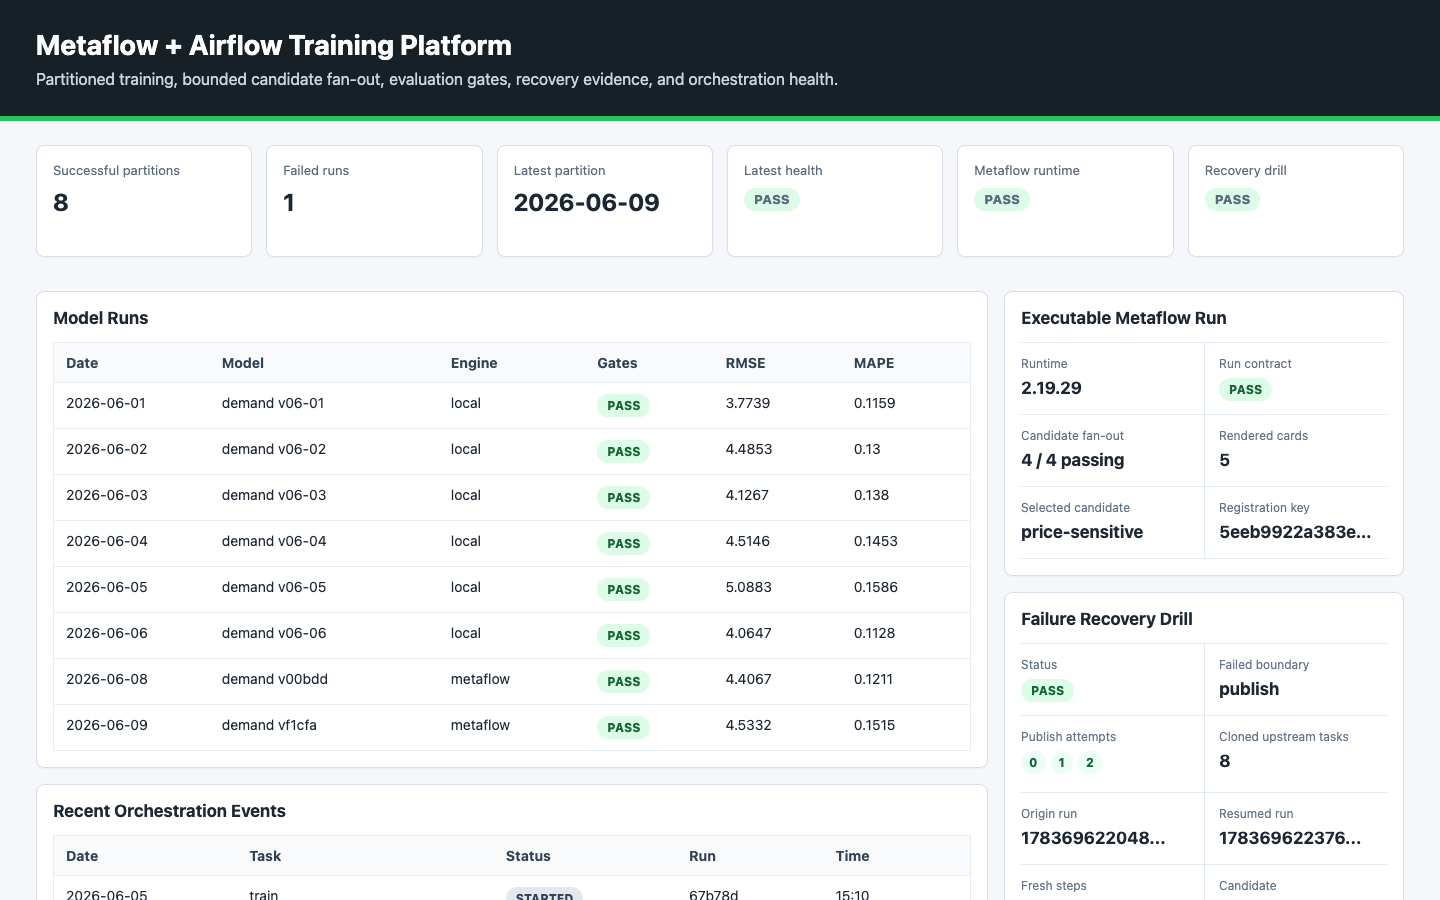
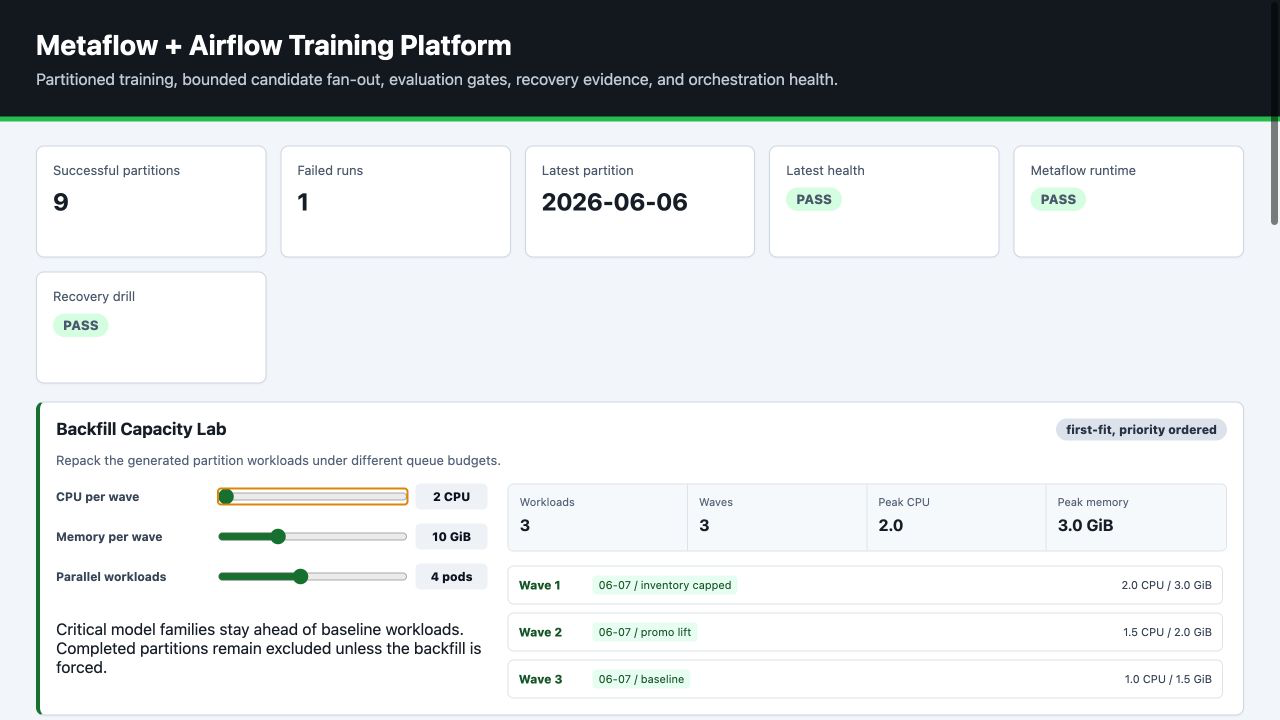
Add interactive training operator demo

diff --git a/src/training_orchestration_platform/dashboard.py b/src/training_orchestration_platform/dashboard.py
@@ -1,6 +1,7 @@
 from __future__ import annotations
 
 import html
+import json
 from pathlib import Path
 
 from .io import read_json, read_jsonl
@@ -103,6 +104,12 @@ def render_dashboard(root: str | Path, output_path: str | Path) -> Path:
     resume_verification = read_json(root / "metaflow" / "resume_verification.json") if (root / "metaflow" / "resume_verification.json").exists() else {}
     runtime_verified = bool(runtime_verification.get("passed")) and runtime_verification.get("run_id") == runtime_contract.get("metaflow_run_id")
     resume_status = "success" if resume_verification.get("passed") else ("failed" if resume_verification else "not run")
+    planner_workloads = [
+        workload
+        for wave in capacity_plan.get("waves", [])
+        for workload in wave.get("workloads", [])
+    ]
+    planner_payload = json.dumps(planner_workloads, separators=(",", ":")).replace("</", "<\\/")
     recent = [
         {
                 "date": row.get("ds"),
@@ -180,8 +187,29 @@ def render_dashboard(root: str | Path, output_path: str | Path) -> Path:
         .fact > span {{ display:block; color:#64748b; font-size:12px; margin-bottom:7px; }}
         .fact strong {{ display:block; min-width:0; font-size:17px; overflow-wrap:anywhere; }}
         .fact .nowrap {{ display:block; width:100%; }}
-        @media (max-width:900px) {{ header {{ padding:22px 18px; }} main {{ padding:18px; }} .layout {{ grid-template-columns:1fr; }} }}
+        .planner {{ border-left:4px solid #15803d; margin-bottom:18px; }}
+        .planner-heading {{ display:flex; align-items:flex-start; justify-content:space-between; gap:18px; margin-bottom:16px; }}
+        .planner-heading p {{ margin:5px 0 0; color:#64748b; font-size:13px; }}
+        .planner-grid {{ display:grid; grid-template-columns:minmax(0,.75fr) minmax(0,1.25fr); gap:20px; align-items:start; }}
+        .controls {{ display:grid; gap:14px; }}
+        .control-row {{ display:grid; grid-template-columns:150px minmax(0,1fr) 72px; gap:10px; align-items:center; }}
+        .control-row label {{ color:#475569; font-size:12px; font-weight:700; }}
+        .control-row input {{ width:100%; accent-color:#15803d; }}
+        .control-value {{ color:#0f172a; background:#f1f5f9; border-radius:5px; padding:6px 8px; font-size:12px; font-weight:800; text-align:center; }}
+        .planner-kpis {{ display:grid; grid-template-columns:repeat(4,minmax(0,1fr)); border:1px solid #e3e9f0; border-radius:6px; overflow:hidden; margin-bottom:14px; }}
+        .planner-kpis div {{ padding:11px; min-height:66px; background:#f8fafc; border-right:1px solid #e3e9f0; }}
+        .planner-kpis div:last-child {{ border-right:0; }}
+        .planner-kpis span {{ display:block; color:#64748b; font-size:11px; margin-bottom:7px; }}
+        .planner-kpis strong {{ display:block; font-size:16px; }}
+        .wave-list {{ display:grid; gap:8px; max-height:268px; overflow:auto; padding-right:4px; }}
+        .wave-row {{ display:grid; grid-template-columns:64px minmax(0,1fr) 150px; gap:10px; align-items:center; padding:9px 10px; border:1px solid #e3e9f0; border-radius:6px; background:white; }}
+        .wave-name {{ font-size:12px; font-weight:800; color:#166534; }}
+        .wave-workloads {{ display:flex; flex-wrap:wrap; gap:5px; }}
+        .wave-chip {{ padding:3px 6px; border-radius:4px; background:#ecfdf5; color:#166534; font-size:11px; white-space:nowrap; }}
+        .wave-resources {{ color:#475569; font-size:11px; text-align:right; }}
+        @media (max-width:900px) {{ header {{ padding:22px 18px; }} main {{ padding:18px; }} .layout,.planner-grid {{ grid-template-columns:1fr; }} }}
         @media (max-width:540px) {{ .facts {{ grid-template-columns:1fr; }} .fact:nth-child(even) {{ padding-left:0; border-left:0; }} }}
+        @media (max-width:620px) {{ .planner-heading {{ flex-direction:column; }} .planner-kpis {{ grid-template-columns:repeat(2,minmax(0,1fr)); }} .planner-kpis div:nth-child(2) {{ border-right:0; }} .planner-kpis div:nth-child(-n+2) {{ border-bottom:1px solid #e3e9f0; }} .control-row {{ grid-template-columns:110px minmax(0,1fr) 60px; }} .wave-row {{ grid-template-columns:52px minmax(0,1fr); }} .wave-resources {{ grid-column:2; text-align:left; }} }}
       </style>
     </head>
     <body>
@@ -197,6 +225,29 @@ def render_dashboard(root: str | Path, output_path: str | Path) -> Path:
           <div class="metric"><span>Latest health</span><strong>{badge(latest_healthy)}</strong></div>
           <div class="metric"><span>Metaflow runtime</span><strong>{badge(runtime_verified)}</strong></div>
           <div class="metric"><span>Recovery drill</span><strong>{status_badge(resume_status)}</strong></div>
+        </section>
+        <section class="panel planner" data-testid="backfill-capacity-lab">
+          <div class="planner-heading">
+            <div><h2>Backfill Capacity Lab</h2><p>Repack the generated partition workloads under different queue budgets.</p></div>
+            <span class="badge neutral">first-fit, priority ordered</span>
+          </div>
+          <div class="planner-grid">
+            <div class="controls">
+              <div class="control-row"><label for="maxCpu">CPU per wave</label><input id="maxCpu" type="range" min="2" max="12" step="0.5" value="6"><output id="maxCpuValue" class="control-value">6 CPU</output></div>
+              <div class="control-row"><label for="maxMemory">Memory per wave</label><input id="maxMemory" type="range" min="4" max="24" step="1" value="10"><output id="maxMemoryValue" class="control-value">10 GiB</output></div>
+              <div class="control-row"><label for="maxParallelism">Parallel workloads</label><input id="maxParallelism" type="range" min="1" max="8" step="1" value="4"><output id="maxParallelismValue" class="control-value">4 pods</output></div>
+              <p class="planner-note">Critical model families stay ahead of baseline workloads. Completed partitions remain excluded unless the backfill is forced.</p>
+            </div>
+            <div>
+              <div class="planner-kpis" aria-live="polite">
+                <div><span>Workloads</span><strong id="plannerWorkloads">{len(planner_workloads)}</strong></div>
+                <div><span>Waves</span><strong id="plannerWaves">{esc(capacity_plan.get('wave_count', 0))}</strong></div>
+                <div><span>Peak CPU</span><strong id="plannerCpu">n/a</strong></div>
+                <div><span>Peak memory</span><strong id="plannerMemory">n/a</strong></div>
+              </div>
+              <div id="waveList" class="wave-list"></div>
+            </div>
+          </div>
         </section>
         <section class="layout">
           <div>
@@ -259,6 +310,69 @@ def render_dashboard(root: str | Path, output_path: str | Path) -> Path:
           </div>
         </section>
       </main>
+      <script>
+        const plannerWorkloads = {planner_payload};
+        const plannerById = (id) => document.getElementById(id);
+
+        function packWaves(workloads, maxCpu, maxMemory, maxParallelism) {{
+          const waves = [];
+          let current = [];
+          let cpu = 0;
+          let memory = 0;
+          workloads.forEach((workload) => {{
+            const exceeds = current.length >= maxParallelism || cpu + workload.cpu > maxCpu || memory + workload.memory_gib > maxMemory;
+            if (current.length && exceeds) {{
+              waves.push({{workloads: current, cpu, memory}});
+              current = [];
+              cpu = 0;
+              memory = 0;
+            }}
+            current.push(workload);
+            cpu += workload.cpu;
+            memory += workload.memory_gib;
+          }});
+          if (current.length) waves.push({{workloads: current, cpu, memory}});
+          return waves;
+        }}
+
+        function renderPlanner() {{
+          const maxCpu = Number(plannerById("maxCpu").value);
+          const maxMemory = Number(plannerById("maxMemory").value);
+          const maxParallelism = Number(plannerById("maxParallelism").value);
+          plannerById("maxCpuValue").textContent = maxCpu + " CPU";
+          plannerById("maxMemoryValue").textContent = maxMemory + " GiB";
+          plannerById("maxParallelismValue").textContent = maxParallelism + " pods";
+          const waves = packWaves(plannerWorkloads, maxCpu, maxMemory, maxParallelism);
+          plannerById("plannerWaves").textContent = waves.length;
+          plannerById("plannerCpu").textContent = Math.max(0, ...waves.map((wave) => wave.cpu)).toFixed(1);
+          plannerById("plannerMemory").textContent = Math.max(0, ...waves.map((wave) => wave.memory)).toFixed(1) + " GiB";
+          const list = plannerById("waveList");
+          list.replaceChildren();
+          waves.forEach((wave, index) => {{
+            const row = document.createElement("div");
+            row.className = "wave-row";
+            const name = document.createElement("span");
+            name.className = "wave-name";
+            name.textContent = "Wave " + (index + 1);
+            const items = document.createElement("div");
+            items.className = "wave-workloads";
+            wave.workloads.forEach((workload) => {{
+              const chip = document.createElement("span");
+              chip.className = "wave-chip";
+              chip.textContent = workload.partition.slice(5) + " / " + workload.model_family.replaceAll("_", " ");
+              items.appendChild(chip);
+            }});
+            const resources = document.createElement("span");
+            resources.className = "wave-resources";
+            resources.textContent = wave.cpu.toFixed(1) + " CPU / " + wave.memory.toFixed(1) + " GiB";
+            row.append(name, items, resources);
+            list.appendChild(row);
+          }});
+        }}
+
+        ["maxCpu", "maxMemory", "maxParallelism"].forEach((id) => plannerById(id).addEventListener("input", renderPlanner));
+        renderPlanner();
+      </script>
     </body>
     </html>
     """

diff --git a/tools/generate_demo_voice.py b/tools/generate_demo_voice.py
@@ -1,0 +1,38 @@
+"""Generate the neural voice-over used by the judge demo video."""
+
+from __future__ import annotations
+
+import argparse
+import asyncio
+from pathlib import Path
+
+
+async def synthesize(text: str, output: Path, voice: str, rate: str) -> None:
+    try:
+        import edge_tts
+    except ImportError as exc:  # pragma: no cover - optional demo dependency
+        raise SystemExit("Install demo dependencies: pip install -e '.[demo]'") from exc
+    output.parent.mkdir(parents=True, exist_ok=True)
+    await edge_tts.Communicate(text=text, voice=voice, rate=rate).save(str(output))
+
+
+def main() -> None:
+    parser = argparse.ArgumentParser(description="Create the training judge demo voice-over.")
+    parser.add_argument("--script", type=Path, default=Path("docs/demo-narration.txt"))
+    parser.add_argument(
+        "--output",
+        type=Path,
+        default=Path(".local/demo/training-judge-demo.mp3"),
+    )
+    parser.add_argument("--voice", default="en-GB-SoniaNeural")
+    parser.add_argument("--rate", default="-3%")
+    args = parser.parse_args()
+    text = args.script.read_text(encoding="utf-8").strip()
+    if not text:
+        raise SystemExit(f"Narration script is empty: {args.script}")
+    asyncio.run(synthesize(text, args.output, args.voice, args.rate))
+    print(args.output)
+
+
+if __name__ == "__main__":
+    main()

diff --git a/tests/test_training_orchestration_platform.py b/tests/test_training_orchestration_platform.py
@@ -1174,7 +1174,13 @@ class TrainingOrchestrationPlatformTest(unittest.TestCase):
             self.assertEqual(summary["pipeline"]["failed_runs"], 1)
             self.assertEqual(summary["next_command"], "make metaflow-runtime-contract")
             self.assertLess(len(str(summary)), 1_000)
-            self.assertTrue((root / "reports" / "training_orchestration_dashboard.html").exists())
+            dashboard_path = root / "reports" / "training_orchestration_dashboard.html"
+            self.assertTrue(dashboard_path.exists())
+            dashboard = dashboard_path.read_text()
+            self.assertIn("Backfill Capacity Lab", dashboard)
+            self.assertIn('data-testid="backfill-capacity-lab"', dashboard)
+            self.assertIn("function packWaves", dashboard)
+            self.assertIn('"model_family":"inventory_capped"', dashboard)
             self.assertTrue((root / "reports" / "index.html").exists())
             self.assertTrue((root / "reports" / "accelerator_capacity_plan.json").exists())
             self.assertTrue((root / "reports" / "device_allocation_plan.json").exists())

diff --git a/docs/judge-demo.md b/docs/judge-demo.md
@@ -1,0 +1,33 @@
+# Judge Demo
+
+## Start the console
+
+```bash
+make clean
+make demo
+python3 -m http.server 8093 --bind 127.0.0.1 --directory .local/reports
+```
+
+Open `http://127.0.0.1:8093/training_orchestration_dashboard.html`.
+
+## Five-minute story
+
+1. Establish the Airflow and Metaflow ownership boundary and point to the generated health evidence.
+2. Lower CPU per wave from 6 to 2 in the Backfill Capacity Lab and show one wave becoming three.
+3. Explain priority ordering, skipped completed partitions, and why the browser planner mirrors the Python policy.
+4. Inspect the executable Metaflow run: version, four-way fan-out, cards, winning candidate, and registration key.
+5. Walk through the forced publish failure, bounded attempts, eight cloned upstream tasks, and two fresh resume steps.
+6. Connect the local proof to Airflow 3.3 assets, Kubernetes Jobs, Kueue, remote artifacts, MLflow, and telemetry.
+
+## Generate narration and video
+
+```bash
+python3.11 -m venv .demo-venv
+.demo-venv/bin/pip install -e '.[demo]'
+make demo-voice PYTHON=.demo-venv/bin/python
+make demo-video
+```
+
+The natural neural voice is generated with `edge-tts`. The resulting video is
+`docs/demo/training-judge-demo.mp4`. Keep this media environment separate from
+the pinned Metaflow runtime so `make verify-metaflow-lock` remains exact.

diff --git a/README.md b/README.md
@@ -13,6 +13,8 @@ require a real cluster and shared infrastructure.
 
 ![Training orchestration dashboard](docs/screenshots/dashboard.png)
 
+[Watch the narrated judge demo](docs/demo/training-judge-demo.mp4) | [Follow the live demo script](docs/judge-demo.md)
+
 ## Implementation Status
 
 | Capability | Evidence | Status |
@@ -22,6 +24,7 @@ require a real cluster and shared infrastructure.
 | Four-way candidate `foreach`, gates, cards, artifacts | Metaflow run verifier and uploaded CI evidence | Executable in CI |
 | Failed publish, retry exhaustion, and `resume` lineage | `make metaflow-resume-contract` | Executable in CI |
 | Airflow 3.3 task and asset state DAG | `make airflow-sdk-contract` | SDK parse-verified in CI |
+| Interactive backfill capacity lab | Browser-tested CPU, memory, and concurrency repacking | Executable locally |
 | Metaflow-generated Airflow DAG | Official export command and environment contract | Deployment mapping |
 | Kueue, Kubernetes, DRA, KubeRay, GitOps, and policy assets | YAML and deterministic policy reports | Reference design |
 | MLflow service and remote object storage | Local compatible artifact contract | Deployment mapping |
@@ -40,6 +43,16 @@ make demo
 make test
 open .local/reports/training_orchestration_dashboard.html
 ```
+
+In the Backfill Capacity Lab, lower CPU per wave from 6 to 2. The same three
+priority-ordered workloads are repacked from one wave into three without
+rerunning the pipeline. The dashboard also exposes the real Metaflow runtime
+contract, candidate fan-out, immutable registration key, failed boundary,
+cloned resume lineage, and recent orchestration events.
+
+The operator console is responsive at review and incident-response sizes:
+
+![Responsive backfill capacity lab](docs/screenshots/dashboard-mobile.png)
 
 Run the actual Metaflow engine and its executable contract:
 
@@ -212,6 +225,8 @@ single failed state transition.
 | `make backfill` | Execute a fixed multi-partition backfill |
 | `make plan-backfill` | Build bounded backfill waves and skipped-partition evidence |
 | `make dashboard` | Regenerate the reviewer dashboard from current artifacts |
+| `make demo-voice` | Generate the neural judge narration with `edge-tts` |
+| `make demo-video` | Assemble the committed narrated desktop and mobile walkthrough |
 | `make test` | Run domain, failure, manifest, and runtime unit tests |
 | `make ci-verify` | Validate the complete generated evidence bundle |
 